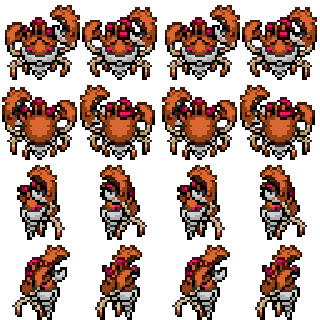
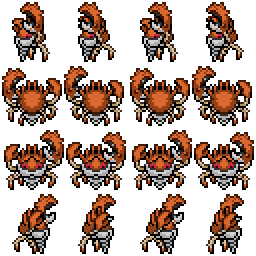
New KLAWSAR overworld sprite
By Gary Oak

diff --git a/Plugins/UserInterface/Credits.rb b/Plugins/UserInterface/Credits.rb
@@ -18,7 +18,7 @@ BlueObelisk<s>SimplyDark
 MrPanda1<s>Angelcake
 Mikomii<s>Lmorgan89
 Valrex<s>Avery
-Destinygreatness
+Destinygreatness<s>Gary Oak
 
 Playtesters
 Splitmoon<s>Sets
